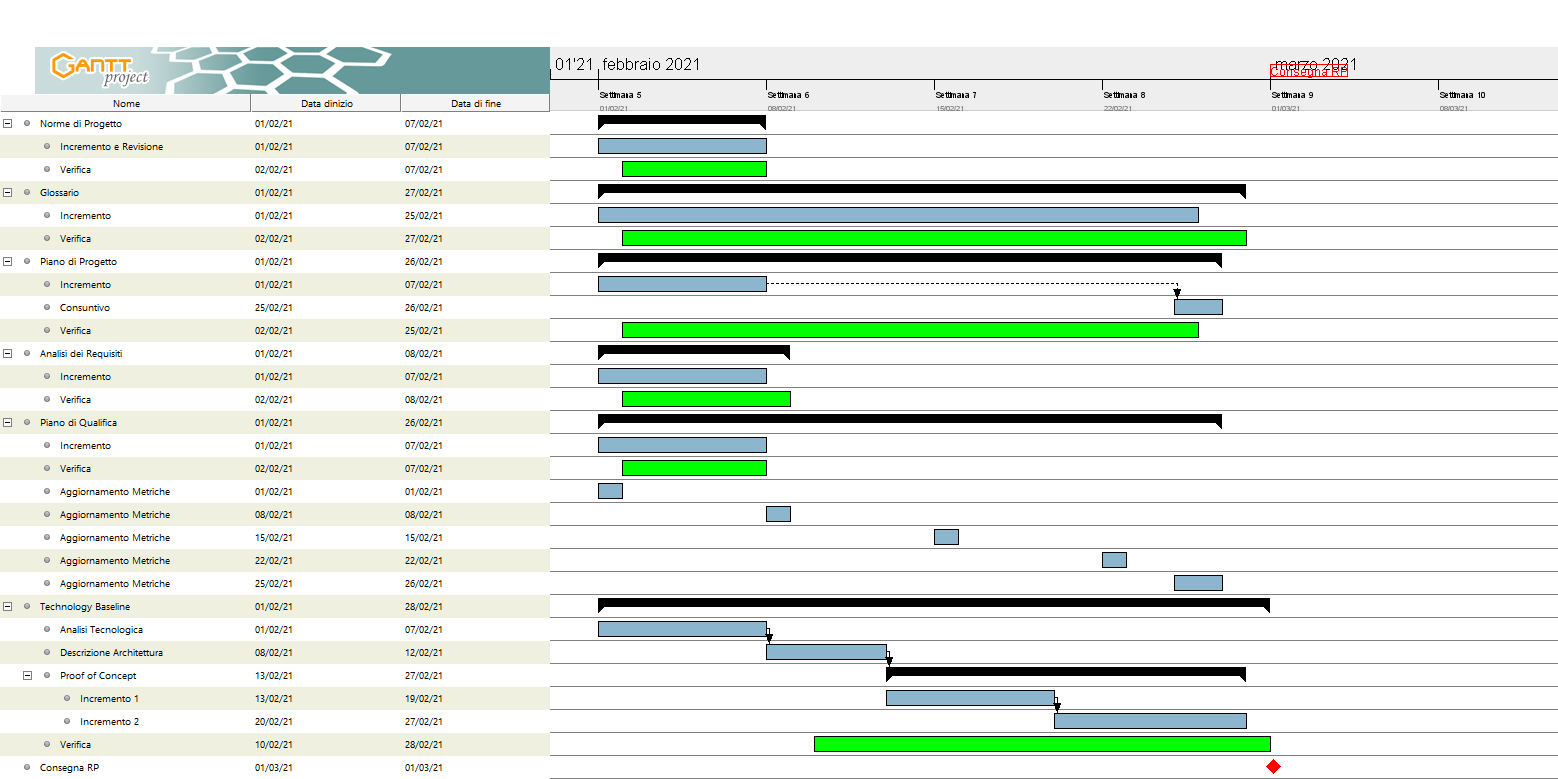
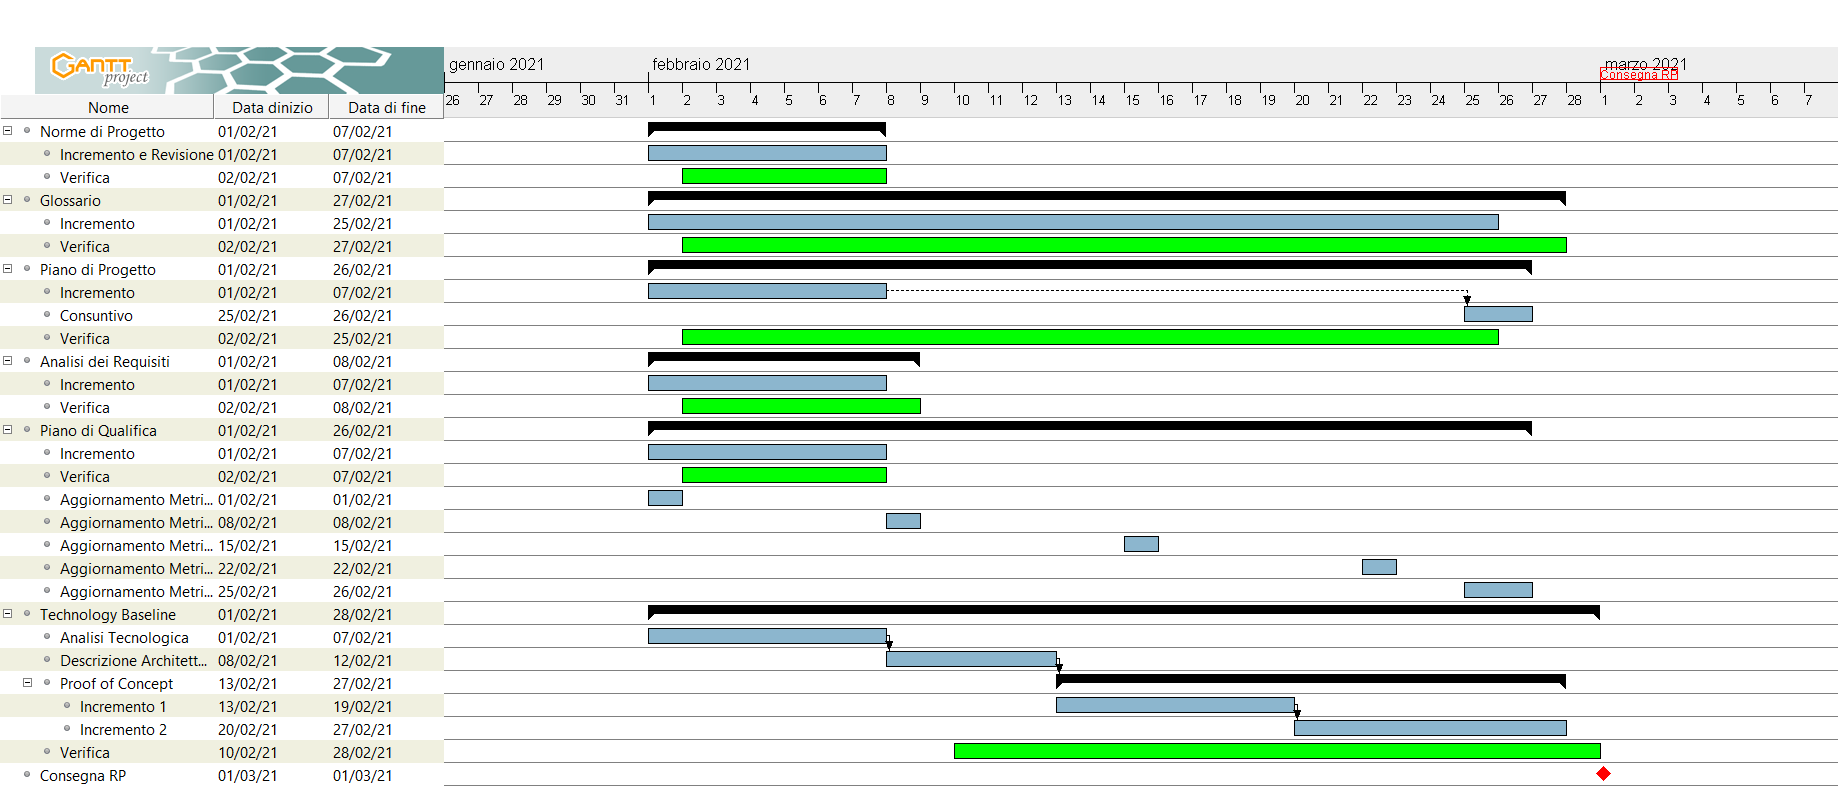
Cambiata immagine e corretta la data
Corretta la data di inizio del periodo di progettazione architetturale e cambiata l'immagine con quella giusta

Changed region(s): [[0.0, 0.0616, 1.0, 1.0]]

diff --git a/DocumentiPubblici/PianoDiProgetto/Sezioni/Sottosezioni/Pianificazione/ProgettazioneDiDettaglioECodifica.tex b/DocumentiPubblici/PianoDiProgetto/Sezioni/Sottosezioni/Pianificazione/ProgettazioneDiDettaglioECodifica.tex
@@ -18,16 +18,16 @@ Le postcondizioni sono:
 È composto da nuovi incrementi e nuove attività:
 \begin{itemize}
     \item \textbf{Incremento e verifica dei documenti:} i documenti già prodotti vengono migliorati e aggiornati se necessario ({\NdP}, {\PdP}, {\Glossario}, {\PdQ}, {\AdR});
-    \item \textbf{Incremento e verifica delle attività}: Viene migliorata l'attività di \textbf{Technology Baseline}, ampliando lo studio delle tecnologie mancanti e progettando ad alto livello come realizzare il prodotto finale;
-    \item \textbf{Product Baseline:} Segue la Technology Baseline ed è formata da 3 incrementi fondamentali per la codifica:
+    \item \textbf{Incremento e verifica delle attività}: viene migliorata l'attività di \textbf{Technology Baseline}, ampliando lo studio delle tecnologie mancanti e progettando ad alto livello come realizzare il prodotto finale;
+    \item \textbf{Product Baseline:} segue la Technology Baseline ed è formata da 3 incrementi fondamentali per la codifica:
         \begin{itemize}
-            \item \textbf{Design pattern}: Vengono individuati e discussi in modo da capire quali siano necessari e come riuscire a integrarli al meglio nel progetto;
-            \item \textbf{Diagrammi classi}: Dopo un'attenta riflessione sul codice vengono realizzati i diagrammi delle classi;
-            \item \textbf{Diagrammi attività}: Dopo un'attenta riflessione sul codice vengono realizzati i diagrammi delle attività. 
+            \item \textbf{Design pattern}: vengono individuati e discussi in modo da capire quali siano necessari e come riuscire a integrarli al meglio nel progetto;
+            \item \textbf{Diagrammi classi}: dopo un'attenta riflessione sul codice vengono realizzati i diagrammi delle classi;
+            \item \textbf{Diagrammi attività}: dopo un'attenta riflessione sul codice vengono realizzati i diagrammi delle attività. 
         \end{itemize} 
-    \item \textbf{Specifica tecnica:} Viene realizzato un documento contenente tutte le caratteristiche del prodotto e le motivazioni che hanno portato alla loro scelta;
-    \item \textbf{Codifica:} Viene scritto il codice con relativa verifica. Questa attività, dato il modello di sviluppo scelto, verrà suddivisa in incrementi che verranno definiti dopo aver preparato il Proof of concept così da avere una maggiore conoscenza sul lavoro effettivo da svolgere e poter progettare al meglio i vari incrementi;
-    \item \textbf{Manuale utente:} Viene redatto un documento che indica le istruzioni d'uso specifico per l'utente.
+    \item \textbf{Specifica tecnica:} viene realizzato un documento contenente tutte le caratteristiche del prodotto e le motivazioni che hanno portato alla loro scelta;
+    \item \textbf{Codifica:} viene scritto il codice con relativa verifica. Questa attività, dato il modello di sviluppo scelto, verrà suddivisa in incrementi che verranno definiti dopo aver preparato il Proof of concept così da avere una maggiore conoscenza sul lavoro effettivo da svolgere e poter progettare al meglio i vari incrementi;
+    \item \textbf{Manuale utente:} viene redatto un documento che indica le istruzioni d'uso specifico per l'utente.
 \end{itemize}
 \newpage
 \subsubsection{Diagramma di Gantt: Progettazione di dettaglio e codifica}

diff --git a/DocumentiPubblici/PianoDiProgetto/Sezioni/AnalisiDeiRischi.tex b/DocumentiPubblici/PianoDiProgetto/Sezioni/AnalisiDeiRischi.tex
@@ -2,10 +2,10 @@
 \label{analisi_dei_rischi}
 Durante lo sviluppo di un progetto così complesso e di grandi dimensioni, la possibilità di incontrare delle problematiche è alta. Per cercare di evitare il più possibile queste criticità si è svolta un'attenta analisi sui possibili rischi del progetto. La procedura utilizzata per l'analisi dei rischi si suddivide nelle seguenti parti:
 \begin{itemize}
-    \item \textbf{Individuazione:} \glo{Attività} iniziale di identificazione di possibili problematiche che potrebbero interferire e minare il corretto avanzamento del progetto;
-    \item \textbf{Analisi:} Attività di analisi dei singoli rischi con l'obiettivo di evidenziare la probabilità di occorrenza, l'indice di gravità e le conseguenze che questi potrebbero causare;
-    \item \textbf{Pianificazione di controllo:} Attività di pianificazione delle misure da adottare per cercare di impedire il verificarsi di tali rischi o per gestirli al meglio qualora si verifichino;
-    \item \textbf{Monitoraggio:} Attività di controllo costante con lo scopo di evitare il verificarsi di problematiche e permettere di attuare le strategie di contenimento individuate dal gruppo di lavoro per limitarne i danni.
+    \item \textbf{Individuazione:} \glo{attività} iniziale di identificazione di possibili problematiche che potrebbero interferire e minare il corretto avanzamento del progetto;
+    \item \textbf{Analisi:} attività di analisi dei singoli rischi con l'obiettivo di evidenziare la probabilità di occorrenza, l'indice di gravità e le conseguenze che questi potrebbero causare;
+    \item \textbf{Pianificazione di controllo:} attività di pianificazione delle misure da adottare per cercare di impedire il verificarsi di tali rischi o per gestirli al meglio qualora si verifichino;
+    \item \textbf{Monitoraggio:} attività di controllo costante con lo scopo di evitare il verificarsi di problematiche e permettere di attuare le strategie di contenimento individuate dal gruppo di lavoro per limitarne i danni.
 \end{itemize}
 Abbiamo suddiviso i principali fattori di rischio nelle seguenti categorie:
 \begin{itemize}

diff --git a/DocumentiPubblici/PianoDiProgetto/Sezioni/Sottosezioni/Pianificazione/ValidazioneECollaudo.tex b/DocumentiPubblici/PianoDiProgetto/Sezioni/Sottosezioni/Pianificazione/ValidazioneECollaudo.tex
@@ -17,8 +17,8 @@ Le postcondizioni sono:
 È composto da nove incrementi e una nuova attività:
 \begin{itemize}
     \item \textbf{Incremento e verifica dei documenti}: alcuni dei documenti già prodotti vengono migliorati e aggiornati ({\NdP}, {\PdP}, {\Glossario}, {\PdQ}, \textit{Specifica tecnica}, \textit{Manuale utente}); 
-    \item \textbf{Incremento e verifica delle attività}: Se necessario vengono migliorate le attività di \textbf{Technology Baseline} per quanto riguarda la progettazione ad alto livello, in particolare la \textbf{Product Baseline} riguardo all'aggiunta di design pattern o di diagrammi di classi o di attività; la parte di codifica, in caso non siano stati riscontrati rallentamenti o ritardi nel progetto, potrebbe comprendere l'implementazione di uno o più casi d'uso opzionali;
-    \item \textbf{Validazione e collaudo}: Realizzazione degli ultimi test, con successivi controlli finali per garantire un buon livello di qualità e correttezza.
+    \item \textbf{Incremento e verifica delle attività}: se necessario vengono migliorate le attività di \textbf{Technology Baseline} per quanto riguarda la progettazione ad alto livello, in particolare la \textbf{Product Baseline} riguardo all'aggiunta di design pattern o di diagrammi di classi o di attività; la parte di codifica, in caso non siano stati riscontrati rallentamenti o ritardi nel progetto, potrebbe comprendere l'implementazione di uno o più casi d'uso opzionali;
+    \item \textbf{Validazione e collaudo}: realizzazione degli ultimi test, con successivi controlli finali per garantire un buon livello di qualità e correttezza.
 \end{itemize}
 \newpage
 \subsubsection{Diagramma di Gantt: Validazione e collaudo}

diff --git a/DocumentiPubblici/PianoDiProgetto/Sezioni/Preventivo.tex b/DocumentiPubblici/PianoDiProgetto/Sezioni/Preventivo.tex
@@ -289,7 +289,7 @@ Il seguente grafico a torta riassume i dati ottenuti:
 
 \subsection{Riepilogo}
 \subsubsection{Ore totali}
-\paragraph{Suddivisione del lavoro}
+\myparagraph{Suddivisione del lavoro}
 Nella seguente tabella vengono riportate il totale delle ore del progetto, sono presenti sia le ore di investimento, sia le ore rendicontate a carico del committente.
 \begin{table}[H]
 	\begin{center}
@@ -316,7 +316,7 @@ I dati ottenuti vengono riassunti nel seguente istogramma:
     \label{fig:Istogramma ripartizione ore totali di investimento e rendicontate }
 \end{figure}
 \newpage
-\paragraph{Prospetto economico}
+\myparagraph{Prospetto economico}
 Il costo per ogni ruolo è il seguente:
 \begin{table}[H]
 	\begin{center}
@@ -344,7 +344,7 @@ Il seguente grafico a torta riassume i dati ottenuti:
 \newpage
 
 \subsubsection{Ore rendicontate}
-\paragraph{Suddivisione del lavoro}
+\myparagraph{Suddivisione del lavoro}
 Nella seguente tabella sono riassunte le ore rendicontate:
 \begin{table}[H]
 	\begin{center}
@@ -371,7 +371,7 @@ I dati ottenuti vengono riassunti nel seguente istogramma:
     \label{fig:Istogramma ripartizione ore totali rendicontate}
 \end{figure}
 \newpage
-\paragraph{Prospetto economico}
+\myparagraph{Prospetto economico}
 Il costo totale rendicontato per ogni ruolo è il seguente:
 \begin{table}[H]
 	\begin{center}

diff --git a/DocumentiPubblici/PianoDiProgetto/Sezioni/Consuntivo.tex b/DocumentiPubblici/PianoDiProgetto/Sezioni/Consuntivo.tex
@@ -1,7 +1,7 @@
 \section{Consuntivo e preventivo a finire}
 \label{consuntivo_preventivo_a_finire}
-Vengono di seguito mostrati i \glo{consuntivi} dei vari periodi con una breve valutazione degli stessi. Sarà inoltre presente un \glo{preventivo} a finire che tiene conto dei soli periodi rendicontati. I valori inseriti nel consuntivo saranno di due tipologie:
-\begin {itemize}
+Vengono di seguito mostrati i consuntivi dei vari periodi con una breve valutazione degli stessi. Sarà inoltre presente un preventivo a finire che tiene conto dei soli periodi rendicontati. I valori inseriti nel consuntivo saranno di due tipologie:
+\begin{itemize}
 	\item \textbf{Positivi:} se il valore del preventivo è superiore al valore del consuntivo;
 	\item \textbf{Negativi:} se il valore del preventivo è inferiore al valore del consuntivo.
 \end{itemize}

diff --git a/DocumentiPubblici/PianoDiProgetto/Sezioni/Sottosezioni/Pianificazione/ProgettazioneArchitetturale.tex b/DocumentiPubblici/PianoDiProgetto/Sezioni/Sottosezioni/Pianificazione/ProgettazioneArchitetturale.tex
@@ -1,6 +1,6 @@
 \subsection{Progettazione architetturale}
 \label{progettazione_architetturale}
-\textbf{Durata:} dal 2021\_01\_19 al 2021\_03\_01\\
+\textbf{Durata:} dal 2021\_02\_01 al 2021\_03\_01\\
 La progettazione architetturale inizia appena concluso il periodo precedente e termina con la \textbf{Revisione di Progettazione}.
 Le precondizioni sono:
 \begin{itemize}
